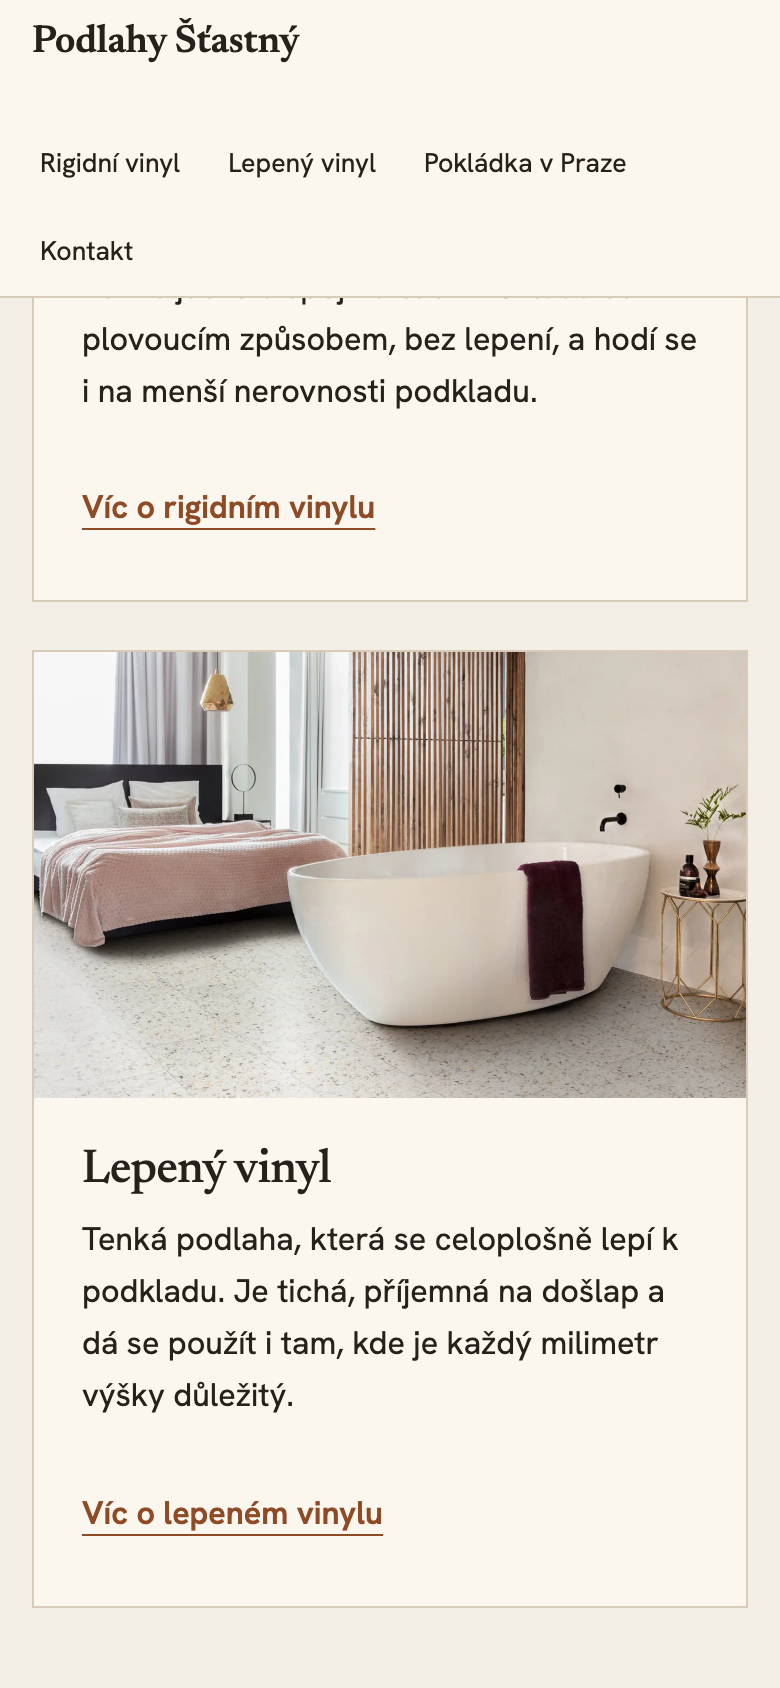
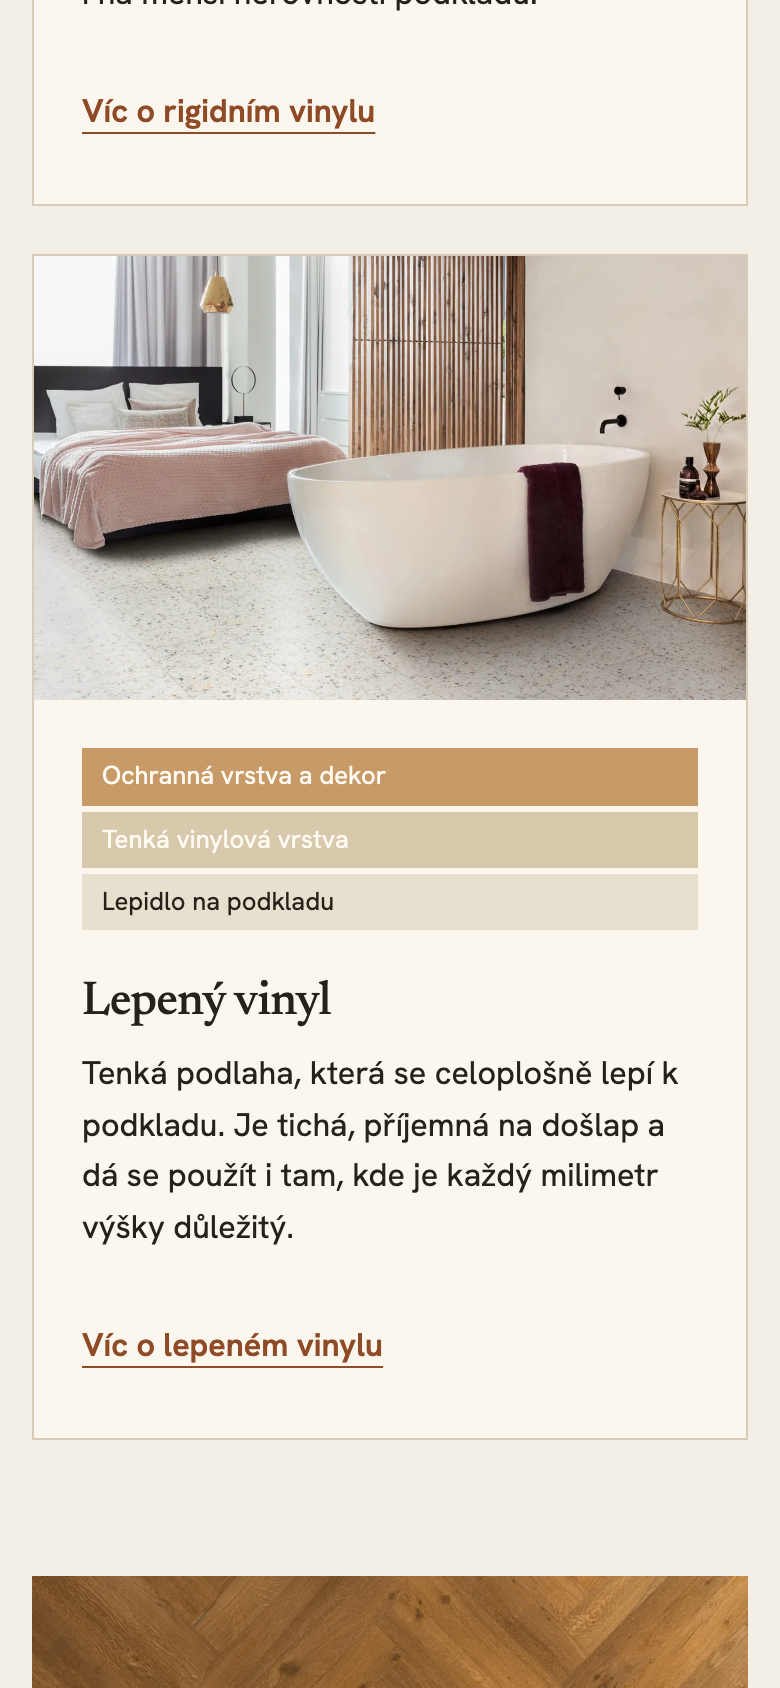
Aktualizace webu 2026-11-08 09:17

diff --git a/src/index.html b/src/index.html
@@ -24,7 +24,7 @@
       <article>{{ img('dlouhe-prkna.jpg', 'Vinylová podlaha ve světlém dubovém dekoru v obývacím pokoji s ratanovým nábytkem', sizes='(min-width: 52rem) 36rem, 100vw') }}
         <div><ol class="vrstvy" aria-label="Skladba rigidního vinylu"><li style="--c:#c79a68;--h:10px">Ochranná vrstva a dekor</li><li style="--c:#8b8070;--h:30px">Pevné jádro s click spojem</li><li style="--c:#4b4338;--h:14px">Podložka</li></ol><h3>Rigidní vinyl</h3><p>Pevné jádro a spoj na click. Pokládá se plovoucím způsobem, bez lepení, a hodí se i na menší nerovnosti podkladu.</p><a class="odkaz" href="{{ url('rigidni-vinyl/') }}">Víc o rigidním vinylu</a></div></article>
       <article>{{ img('koupelna.jpg', 'Lepená vinylová podlaha v dekoru terrazza v ložnici s volně stojící vanou', sizes='(min-width: 52rem) 36rem, 100vw') }}
-        <div><ol class="vrstvy" aria-label="Skladba lepeného vinylu"><li style="--c:#c79a68;--h:10px">Ochranná vrstva a dekor</li><li style="--c:#d9c9ac;--h:14px">Tenká vinylová vrstva</li><li style="--c:#e8e0cf;--h:8px;--t:#26211b">Lepidlo na podkladu</li></ol><h3>Lepený vinyl</h3><p>Tenká podlaha, která se celoplošně lepí k podkladu. Je tichá, příjemná na došlap a dá se použít i tam, kde je každý milimetr výšky důležitý.</p><a class="odkaz" href="{{ url('lepeny-vinyl/') }}">Víc o lepeném vinylu</a></div></article>
+        <div><ol class="vrstvy" aria-label="Skladba lepeného vinylu"><li style="--c:#c79a68;--h:10px">Ochranná vrstva a dekor</li><li style="--c:#d9c9ac;--h:14px;--t:#26211b">Tenká vinylová vrstva</li><li style="--c:#e8e0cf;--h:8px;--t:#26211b">Lepidlo na podkladu</li></ol><h3>Lepený vinyl</h3><p>Tenká podlaha, která se celoplošně lepí k podkladu. Je tichá, příjemná na došlap a dá se použít i tam, kde je každý milimetr výšky důležitý.</p><a class="odkaz" href="{{ url('lepeny-vinyl/') }}">Víc o lepeném vinylu</a></div></article>
     </div>
   </div>
 </section>
@@ -44,7 +44,7 @@
 
 <section class="sekce">
   <div class="wrap dva">
-    <div class="foto">{{ img('dlouhe-prkna.jpg', 'Hotová vinylová podlaha v dekoru světlého dubu', sizes='(min-width: 52rem) 40vw, 100vw') }}</div>
+    <div class="foto">{{ img('velke-dilce.jpg', 'Lepená vinylová podlaha v dekoru terrazzo v dětském pokoji', sizes='(min-width: 52rem) 40vw, 100vw') }}</div>
     <div>
       <p class="stitek">Jak to probíhá</p>
       <h2>Od poptávky k hotové podlaze</h2>

diff --git a/static/css/style.css b/static/css/style.css
@@ -154,3 +154,7 @@ details p { margin-top: var(--space-1); max-width: 40rem; color: var(--muted); }
 .osa li { position: relative; }
 .osa li::before { content: ""; position: absolute; left: calc(-1 * var(--space-3) - 7px); top: .55rem; width: 12px; height: 12px; border-radius: 50%; background: var(--accent); }
 .osa b { font-family: var(--font-head); font-size: var(--step-1); font-weight: 500; display: block; }
+
+.osa { padding-left: calc(var(--space-3) + 12px); }
+.osa li::before { left: calc(-1 * var(--space-3) - 12px - 7px); }
+@media (max-width: 40rem) { .hlavicka .wrap { flex-wrap: nowrap; } .nav-vedlejsi { display: none !important; } .hlavicka nav a:last-child { margin-left: 0; } }

diff --git a/src/_base.html b/src/_base.html
@@ -26,7 +26,7 @@
   <div class="wrap">
     <a href="{{ url('') }}" class="logo">{% if site.logo %}<img src="{{ base }}{{ site.logo }}" alt="{{ site.nazev }}" height="40">{% else %}{{ site.nazev }}{% endif %}</a>
     <nav aria-label="Hlavní">
-      {% for n in site.nav %}<a href="{{ n.href if n.href.startswith(('#', 'http', 'tel:', 'mailto:')) else url(n.href) }}">{{ n.text }}</a> {% endfor %}
+      {% for n in site.nav %}<a{% if not loop.last %} class="nav-vedlejsi"{% endif %} href="{{ n.href if n.href.startswith(('#', 'http', 'tel:', 'mailto:')) else url(n.href) }}">{{ n.text }}</a> {% endfor %}
     </nav>
   </div>
 </header>
